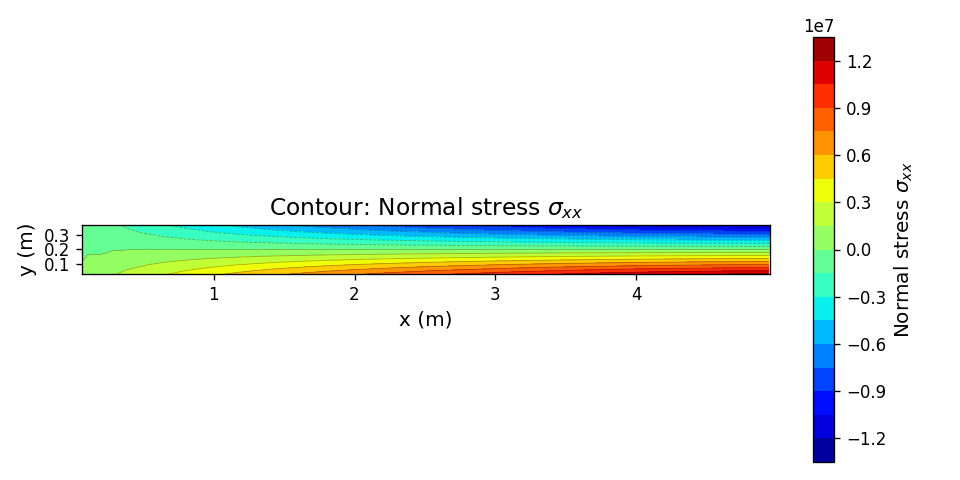
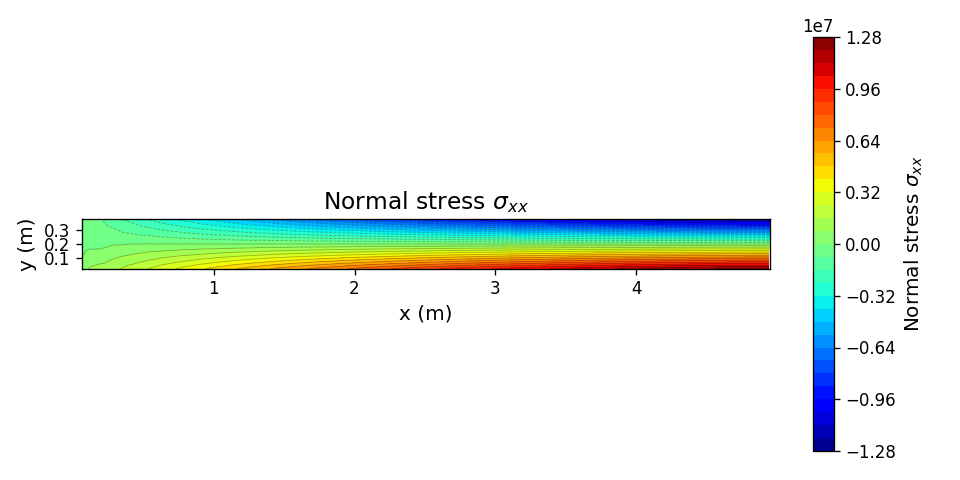
.

diff --git a/MHA021/CA2/CA2.py b/MHA021/CA2/CA2.py
@@ -62,23 +62,7 @@ def sfig(fig_name):
     fig_output_file.parent.mkdir(parents=True, exist_ok=True)
     plt.savefig(fig_output_file, dpi=dpi, bbox_inches='tight')
     print('figure name: ', fig_name)
-
-def figg(fig_name):
-    fig_output_file = script_dir / "fig" / fig_name
-    fig_output_file.parent.mkdir(parents=True, exist_ok=True)
-    plt.legend()
-    plt.grid(True, alpha = 0.3)
-    plt.savefig(fig_output_file, dpi=dpi, bbox_inches='tight')
-    plt.show()
-    print('figure name: ', fig_name)
     
-def printt(**kwargs):
-    for name, value in kwargs.items():
-        print('\n')
-        print(f"\033[94m{name}\033[0m:")
-        print(f"\033[92m{value}\033[0m")
-        print('\n')
-
 #%%
 ####################################################################################################
 ####################################################################################################
@@ -210,8 +194,8 @@ def task12(element_type='cst', nelx=50, nely=10, plot_n_print=False, W=5):
     # displayvar('r', r, accuracy=3)
     
     right_dofs_y = [2 * (n - 1) + 2 for n in right_nodes]
-    disp_y_right = a[np.array(right_dofs_y) - 1]
-    avg_deflection = np.mean(disp_y_right)
+    uy_right = a[np.array(right_dofs_y) - 1]
+    uy_avg = np.mean(uy_right)
     # displayvar('u_{right, avg}', avg_deflection, accuracy=3)
     
     ed = extract_dofs(a, Edof)
@@ -222,8 +206,8 @@ def task12(element_type='cst', nelx=50, nely=10, plot_n_print=False, W=5):
     else:
         pass
     
-    el_stresses = np.zeros((len(elements), 3))
-    el_strains = np.zeros((len(elements), 3))
+    el_stress = np.zeros((len(elements), 3))
+    el_strain = np.zeros((len(elements), 3))
 
     for el in range(len(elements)):
         nodes[elements[el, :] - 1]
@@ -235,23 +219,26 @@ def task12(element_type='cst', nelx=50, nely=10, plot_n_print=False, W=5):
         else:
             σe, ϵe = bilinear_element_stress_strain(nodes[elements[el, :] - 1], D, ae)
             
-        el_stresses[el, :] = σe
-        el_strains[el, :] = ϵe
+        el_stress[el, :] = σe
+        el_strain[el, :] = ϵe
     # displayvar('σ', el_stresses, accuracy=3)
     
-    right_elements = [el for el in range(len(elements)) 
+    el_right_edge = [el for el in range(len(elements)) 
                   if sum(n in right_nodes for n in elements[el, :]) >= 2]
 
-    right_edge_stresses = el_stresses[right_elements, :]
-    right_max_norm_stress = np.max(np.abs(right_edge_stresses[:, 0]))
+    right_edge_stress = el_stress[el_right_edge, :] # stresses at right edge
+    sigmaxx_max = np.max(np.abs(right_edge_stress[:, 0])) # maximum normal stress
         
     print(f'\n number of DOFs: {ndofs}')
-    print(f'\nComparison with analytical solution: \n Deflection: {avg_deflection:.3e} m vs {delta_analytic:.3e} m \n Stress: {right_max_norm_stress:.3e} Pa vs {sigma_analytic:.3e} Pa')
+    print(f'\nComparison with analytical solution:')
+    print(f'Deflection: {uy_avg:.3e} m vs {delta_analytic:.3e} m')
+    print(f'Stress: {sigmaxx_max:.3e} Pa vs {sigma_analytic:.3e} Pa')
     
-    fraction_displacement = avg_deflection / delta_analytic
-    fraction_stress = right_max_norm_stress / sigma_analytic
+    # Displacement and stress fractions
+    f_uy = uy_avg / delta_analytic
+    f_sigmaxx = sigmaxx_max / sigma_analytic
 
-    return avg_deflection, right_max_norm_stress, ndofs, fraction_displacement, fraction_stress, nodes, elements, el_centers, el_stresses, el_strains
+    return uy_avg, sigmaxx_max, ndofs, f_uy, f_sigmaxx, nodes, elements, el_centers, el_stress, el_strain
 
 task12(element_type='cst', nelx=40, nely=8, plot_n_print=True)
 
@@ -269,34 +256,34 @@ nely_list = [int(i * (H / W)) for i in nelx_list]
 print(nelx_list)
 print(nely_list)
 
-avg_deflection_list = []
-max_norm_stress_list = []
+uy_avg_list = []
+sigmaxx_max_list = []
 ndofs_list = []
-fraction_displacement_list = []
-fraction_stress_list = []
+f_uy_list = []
+f_sigmaxx_list = []
 for i in range(len(nelx_list)):
-    avg_deflection, right_max_norm_stress, ndofs, fraction_displacement, fraction_stress, nodes, elements, el_centers, el_stresses, el_strains = task12(element_type='cst', nelx=nelx_list[i], nely=nely_list[i])
-    avg_deflection_list.append(avg_deflection)
-    max_norm_stress_list.append(right_max_norm_stress)
+    uy_avg, sigmaxx_max, ndofs, f_uy, f_sigmaxx, nodes, elements, el_centers, el_stress, el_strain = task12(element_type='cst', nelx=nelx_list[i], nely=nely_list[i])
+    uy_avg_list.append(uy_avg)
+    sigmaxx_max_list.append(sigmaxx_max)
     ndofs_list.append(ndofs)
-    fraction_displacement_list.append(fraction_displacement)
-    fraction_stress_list.append(fraction_stress)
+    f_uy_list.append(f_uy)
+    f_sigmaxx_list.append(f_sigmaxx)
     
     if i != 0:
-        rel_change_displacement = (fraction_displacement_list[i] - fraction_displacement_list[i -1 ]) / fraction_displacement_list[i]
-        rel_change_stress = (fraction_stress_list[i] - fraction_stress_list[i - 1]) / fraction_stress_list[i]
+        rel_change_uy = (f_uy_list[i] - f_uy_list[i -1 ]) / f_uy_list[i]
+        rel_change_sigmaxx = (f_sigmaxx_list[i] - f_sigmaxx_list[i - 1]) / f_sigmaxx_list[i]
 
-        print(f'relative change in displacement: {rel_change_displacement} %')
-        print(f'relative change in stress: {rel_change_stress} %')
+        print(f'relative change in displacement: {rel_change_uy} %')
+        print(f'relative change in stress: {rel_change_sigmaxx} %')
         
-        if rel_change_displacement <= 0.01:
+        if rel_change_uy <= 0.01:
             print(f'Deflection convergence for NDOF = {ndofs}')
         
-        if rel_change_stress <= 0.01:
+        if rel_change_sigmaxx <= 0.01:
             print(f'Stress convergence for NDOF = {ndofs}')
 
     plt.figure()
-    plt.plot(ndofs_list, avg_deflection_list, 'X-')
+    plt.plot(ndofs_list, uy_avg_list, 'X-')
     plt.axhline(delta_analytic, color='orange', linestyle='--', alpha=0.5)
     plt.xlabel('Number of DOFs')
     plt.ylabel('Average deflection (m)')
@@ -304,7 +291,7 @@ for i in range(len(nelx_list)):
     plt.show()
     
     plt.figure()
-    plt.plot(ndofs_list, fraction_displacement_list, 'o-', color='black')
+    plt.plot(ndofs_list, f_uy_list, 'o-', color='black')
     plt.axhline(1, color='orange', linestyle='--', alpha=0.5)
     plt.xlabel('Number of DOFs')
     plt.ylabel('Displacement fraction: Numerical / Analytical')
@@ -312,7 +299,7 @@ for i in range(len(nelx_list)):
     plt.show()
     
     plt.figure()
-    plt.plot(ndofs_list, max_norm_stress_list, 'X-', color='red')
+    plt.plot(ndofs_list, sigmaxx_max_list, 'X-', color='red')
     plt.axhline(sigma_analytic, color='orange', linestyle='--', alpha=0.5)
     plt.xlabel('Number of DOFs')
     plt.ylabel('Maximum normal stress (Pa)')
@@ -320,7 +307,7 @@ for i in range(len(nelx_list)):
     plt.show()
     
     plt.figure()
-    plt.plot(ndofs_list, fraction_stress_list, 'o-', color='black')
+    plt.plot(ndofs_list, f_sigmaxx_list, 'o-', color='black')
     plt.axhline(1, color='orange', linestyle='--', alpha=0.5)
     plt.xlabel('Number of DOFs')
     plt.ylabel('Stress fraction: Numerical / Analytical')
@@ -572,36 +559,36 @@ task12(element_type='quad', nelx=40, nely=8, plot_n_print=True)
 # d)
 #---------------------------------------------------------------------------------------------------
 
-avg_deflection, right_max_norm_stress, ndofs, fraction_displacement, fraction_stress, nodes, elements, el_centers, el_stresses, el_strains = task12(element_type='quad', nelx=40, nely=8, plot_n_print=False)
+uy_avg, sigmaxx_max, ndofs, f_uy, f_sigmaxx, nodes, elements, el_centers, el_stress, el_strain = task12(element_type='quad', nelx=40, nely=8, plot_n_print=False)
 
 import matplotlib.tri as tri
 
 def plot_single_contour(el_centers, field_data, field_name, file_name, cmap='jet'):
-    fig, ax = plt.subplots()
+    plt.figure()
     
     triang = tri.Triangulation(el_centers[:, 0], el_centers[:, 1])
-    contour = ax.tricontourf(triang, field_data, levels=20, cmap=cmap)
-    ax.tricontour(triang, field_data, levels=20, colors='k', linewidths=0.5, alpha=0.3)
+    contour = plt.tricontourf(triang, field_data, levels=30, cmap=cmap)
+    plt.tricontour(triang, field_data, levels=30, colors='k', linewidths=0.5, alpha=0.3)
     
-    cbar = plt.colorbar(contour, ax=ax)
+    cbar = plt.colorbar(contour)
     cbar.set_label(field_name)
     
-    ax.set_xlabel('x (m)')
-    ax.set_ylabel('y (m)')
-    ax.set_title(f'Contour: {field_name}')
-    ax.set_aspect('equal')
+    plt.xlabel('x (m)')
+    plt.ylabel('y (m)')
+    plt.title(f'{field_name}')
+    plt.gca().set_aspect('equal')
     
     plt.tight_layout()
     plt.savefig('figures/' + file_name + '.png')
-    return fig
+    plt.show()
 
-shear_strain = el_strains[:, 2]
+shear_strain = el_strain[:, 2]
 plot_single_contour(el_centers, shear_strain, 'Shear strain $\gamma_{xy}$', 'Shear strain', cmap='jet')
 
-vertical_strain = el_strains[:, 1]
-plot_single_contour(el_centers, vertical_strain, 'Vertical strain $\gamma_{yy}$', 'Vertical strain', cmap='jet')
+vertical_strain = el_strain[:, 1]
+plot_single_contour(el_centers, vertical_strain, 'Vertical strain $\epsilon_{yy}$', 'Vertical strain', cmap='jet')
 
-normal_stress = el_stresses[:, 0]
+normal_stress = el_stress[:, 0]
 plot_single_contour(el_centers, normal_stress, 'Normal stress $\sigma_{xx}$','Normal stress', cmap='jet')
 
 #%%
@@ -609,26 +596,32 @@ plot_single_contour(el_centers, normal_stress, 'Normal stress $\sigma_{xx}$','No
 # e)
 #---------------------------------------------------------------------------------------------------
 
-print('\nEvaluation of Euler-Bernoulli breakdown')
-ratios = np.arange(1, 15, 0.5)
-fraction_displacement_list = []
-fraction_stress_list = []
-for r in ratios:
-    W_val = (r * 0.4) / 2.0
-    avg_deflection, right_max_norm_stress, ndofs, fraction_displacement, fraction_stress, nodes, elements, el_centers, el_stresses, el_strains = task12(element_type='quad', nelx=int(W_val/0.02), nely=20, plot_n_print=False, W=W_val)
-    print(f'\nratio = {r}: displacement fraction: {fraction_displacement:.2e} stress fraction: {fraction_stress:.2e}')
-    
-    fraction_displacement_list.append(fraction_displacement)
-    fraction_stress_list.append(fraction_stress)
 
-#%%
+ratios = np.arange(1, 17, 0.5)
+f_uy_list = []
+f_sigmaxx_list = []
+
+for r in ratios:
+    W_val = (r * 0.4) / 2
+    _, _, _, f_uy, f_sigmaxx, _, _, el_centers, el_stress, el_strain = task12(element_type='quad', nelx=int(W_val * 50), nely=20, plot_n_print=False, W=W_val)
+    print(f'\nratio = {r}: displacement fraction: {f_uy:.2e} stress fraction: {f_sigmaxx:.2e}')
+    
+    f_uy_list.append(f_uy)
+    f_sigmaxx_list.append(f_sigmaxx)
+    
+    if r in [1, 4, 16]:
+        shear_strain = el_strain[:, 2]
+        plot_single_contour(el_centers, shear_strain, 'Shear strain $\gamma_{xy} $' + f'(ratio ={r})', 'Shear strain_' + str(r), cmap='jet')
+
 plt.figure()
-plt.plot(ratios, fraction_displacement_list, 'o-', label='fraction displacement')
-plt.plot(ratios, fraction_stress_list, 'o-', label='fraction stress', color='red')
-plt.axhline(y=1, color='black', linestyle='-')
+plt.plot(ratios, f_uy_list, 'o-', label='displacement', alpha=0.75)
+plt.plot(ratios, f_sigmaxx_list, 'o-', label='stress', color='red', alpha=0.75)
+plt.axhline(y=1, color='black', label='fraction = 1', linestyle='--', alpha=0.75)
 plt.xlabel('ratio L/H')
-plt.ylabel('fraction')
+plt.ylabel('fraction: numerical / analytical')
 plt.legend()
+plt.tight_layout()
+plt.savefig('figures/Euler Bernoulli breakdown')
 plt.show()
 
 #%%
